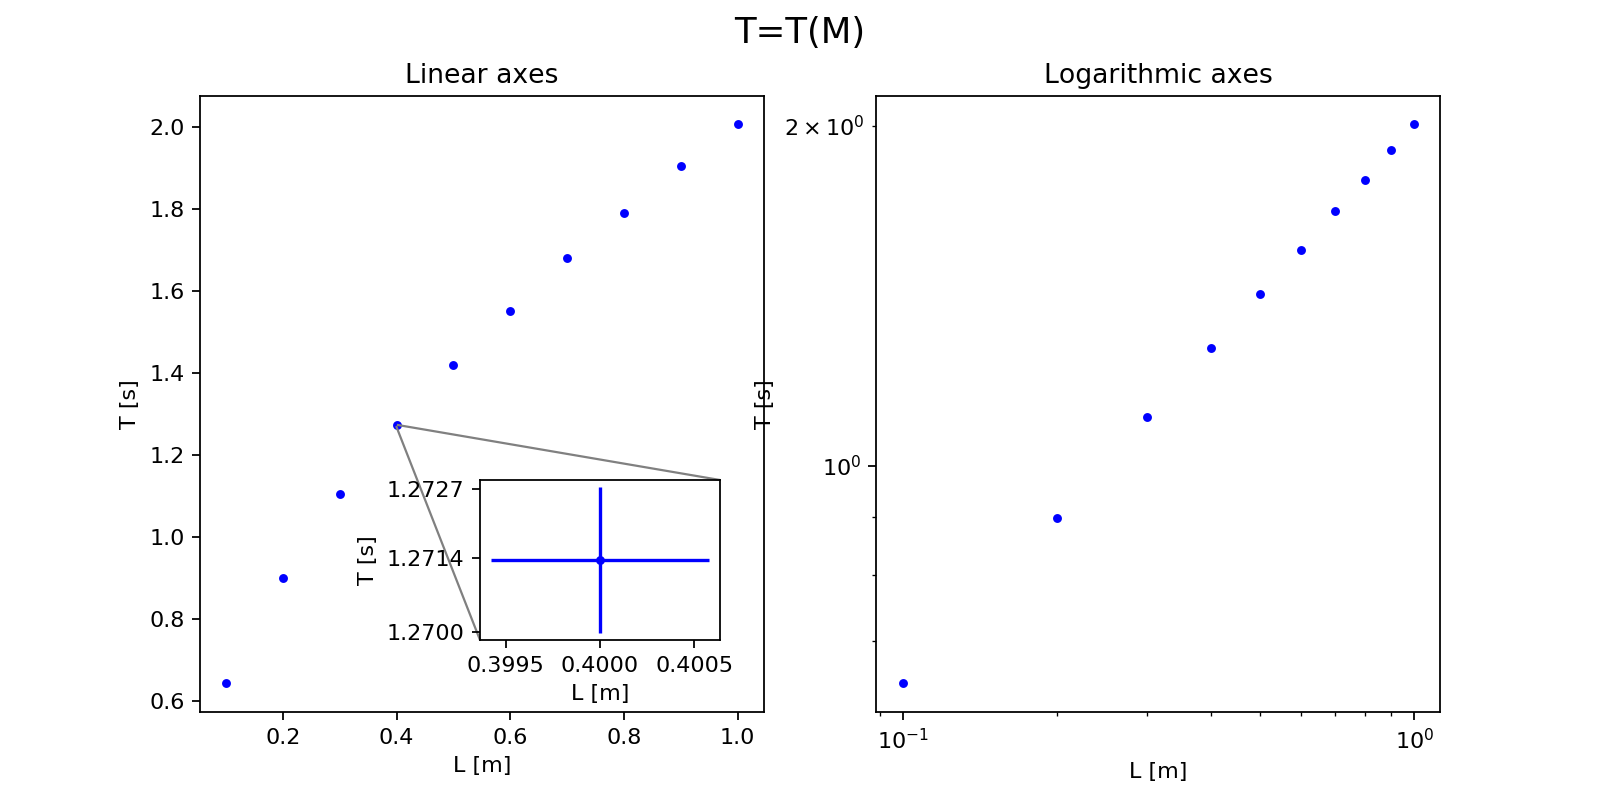
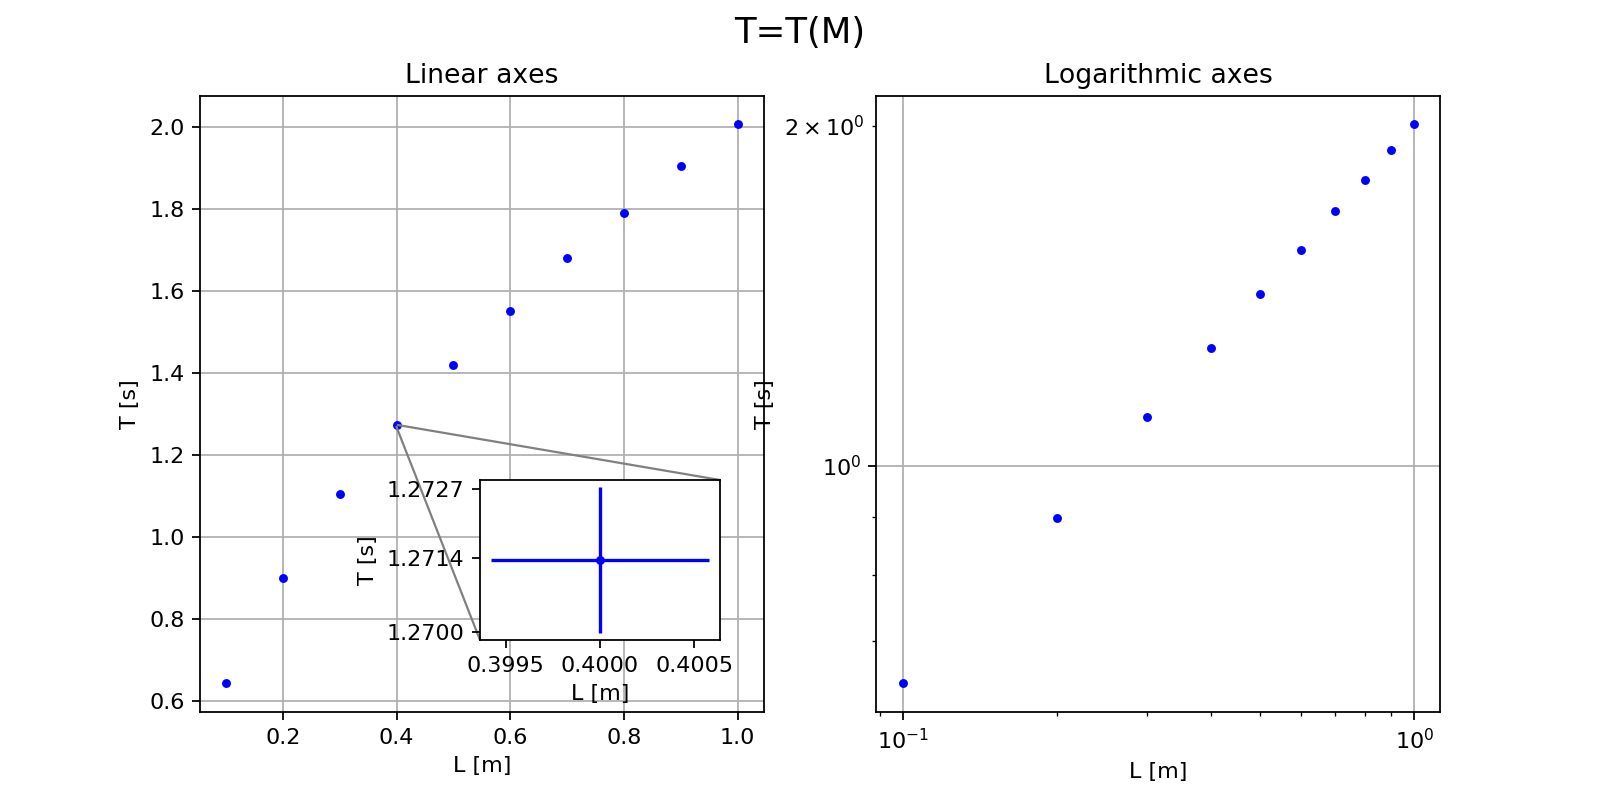
finished and sent

diff --git a/pendolo-massa/pendolo_massa_3.py b/pendolo-massa/pendolo_massa_3.py
@@ -51,7 +51,7 @@ def parte_3():
     dt=np.sqrt((delta_t)**2 + \
                 np.std(tempi,axis=1)**2)[0:]
     dm=1e-4/np.sqrt(12)
-    dd=5*np.pi/180
+    dd=1*np.pi/180
 
     #data
     x=final_lengths=lunghezze[0:]
@@ -146,6 +146,7 @@ def parte_3():
     ax11.set_title('Linear axes')
     ax11.set_ylabel('T ['+t_units+']')
     ax11.set_xlabel('L ['+l_units+']')
+    ax11.grid()
     #sp2
     ax12=fig1.add_subplot(1,2,2)
     ax12.errorbar(x,y,xerr=dx,yerr=dt,fmt='b.')
@@ -154,6 +155,7 @@ def parte_3():
     ax12.set_title('Logarithmic axes')
     ax12.set_ylabel('T ['+t_units+']')
     ax12.set_xlabel('L ['+l_units+']')
+    ax12.grid()
     #zoom
     ax11_zoom = fig1.add_axes((.3,.2,.15,.2))
     ax11_zoom.errorbar(final_lengths[3],final_time[3],xerr=dx,yerr=dt[3],fmt='b.')
@@ -164,6 +166,7 @@ def parte_3():
     ax11_zoom.set_ylabel('T ['+t_units+']')
     ax11_zoom.set_xlabel('L ['+l_units+']')
     mark_inset(ax11, ax11_zoom, loc1=1, loc2=3, fc="none", ec="0.5")
+
     #finishing
     fig1.suptitle('T=T(M)',fontsize=16)
 
@@ -171,52 +174,59 @@ def parte_3():
     fig2=plt.figure(figsize=(8,4))
     #sp1
     ax21=fig2.add_subplot(1,2,1)
-    ax21.errorbar(x,y,xerr=dx,yerr=dt,fmt='b.')
-    ax21.plot([np.min(x),np.max(x)],[A+np.min(x)*B,A+np.max(x)*B],color='#e41a1c')
-    ax21.set_title('T=T(M)')
+    ax21.errorbar(x,y,xerr=dx,yerr=dt,fmt='b.',label='Dati')
+    ax21.plot([np.min(x),np.max(x)],[A+np.min(x)*B,A+np.max(x)*B],color='#e41a1c',label='Regressione lineare')
+    ax21.set_title('Regressione Lineare')
     ax21.set_ylabel('T ['+t_units+']')
     ax21.set_xlabel('L ['+l_units+']')
     #sp2
     ax22=fig2.add_subplot(1,2,2)
     ax22.errorbar(x,y-A-B*x,xerr=dx,yerr=dt,fmt='b.')
     ax22.axhline(y=0,color='#e41a1c')
-    ax22.set_title('R=R(M)')
+    ax22.set_title('Residui')
     ax22.set_ylabel('T ['+t_units+']')
     ax22.set_xlabel('L ['+l_units+']')
+
+    legend21 = ax21.legend(loc='lower right', shadow=True)
     #finishing
-    fig2.suptitle('Proporzione lineare T=A+B*l',fontsize=16)
+    #fig2.suptitle('Proporzione lineare T=A+B*l',fontsize=16)
 
 
     ##PLOT 3
     fig3=plt.figure(figsize=DOUBLE_FIGSIZE)
     #sp1
     ax31=fig3.add_subplot(1,2,1)
-    ax31.errorbar(X,Y,xerr=dX,yerr=dY,fmt='b.')
-    ax31.plot([np.min(X),np.max(X)],[A_log+np.min(X)*B_log,A_log+np.max(X)*B_log],color='#e41a1c')
-    ax31.set_title('Y=Y(X)')
+    ax31.errorbar(X,Y,xerr=dX,yerr=dY,fmt='b.',label='Dati')
+    ax31.plot([np.min(X),np.max(X)],[A_log+np.min(X)*B_log,A_log+np.max(X)*B_log],color='#e41a1c',label='Regressione lineare')
+    ax31.set_title('Regressione lineare')
     ax31.set_ylabel('Y[]')
     ax31.set_xlabel('X[]')
+    legend31 = ax31.legend(loc='lower right', shadow=True)
+    ax31.grid()
     #sp2
     ax32=fig3.add_subplot(1,2,2)
     ax32.errorbar(X,Y-A_log-B_log*X,xerr=dX,yerr=dY,fmt='b.')
     ax32.axhline(y=0,color='#e41a1c')
-    ax32.set_title('R_log(X)')
+    ax32.set_title('Residui')
     ax32.set_ylabel('R[]')
     ax32.set_xlabel('X[]')
+    ax32.grid()
+
     #finishing
-    fig3.suptitle('Proporzione lineare sui grafici loglog Y=A_log+B_log*X',fontsize=16)
+    # fig3.suptitle('Proporzione lineare sui grafici loglog Y=A_log+B_log*X',fontsize=16)
 
     ##PLOT 4
     fig4=plt.figure(figsize=MONO_FIGSIZE)
     #sp1
     ax41=fig4.add_subplot(1,1,1)
     for i in [[dg,'#e41a1c','dg'],[dg_l,'#377eb8','dg_l'],[dg_t,'#4daf4a','dg_t']]:
-        ax41.plot(x,i[0],color=i[1],label=i[2])
+        ax41.plot(x,i[0],'bo',color=i[1],label=i[2])
+        ax41.plot(x,i[0],'--',color=i[1])
     ax41.set_ylabel('dg ['+l_units+'*'+t_units+'^-2]')
     ax41.set_xlabel('L ['+l_units+']')
     #finishing
     legend41 = ax41.legend(loc='upper right', shadow=True)
-    legend41.get_frame().set_facecolor('#00FF69')
+    # legend41.get_frame().set_facecolor('#00FF69')
     fig4.suptitle('Confronto contributo incertezze per g',fontsize=16)
 
     ##PLOT 5
@@ -234,7 +244,7 @@ def parte_3():
     ax51.set_ylabel('g ['+l_units+'*'+t_units+'^-2]')
     ax51.set_xlabel('L ['+l_units+']')
     legend51 = ax51.legend(loc='lower right', shadow=True)
-    legend51.get_frame().set_facecolor('#00FF69')
+    #legend51.get_frame().set_facecolor('#00FF69')
     #finishing
     fig5.suptitle('Dipendenza di g da l',fontsize=16)
 
@@ -250,7 +260,7 @@ def parte_3():
     ax61.set_ylabel('g ['+l_units+'*'+t_units+'^-2]')
     ax61.set_xlabel('L ['+l_units+']')
     legend61 = ax61.legend(loc='lower right', shadow=True)
-    legend61.get_frame().set_facecolor('#00FF69')
+    #legend61.get_frame().set_facecolor('#00FF69')
     #finishing
     fig6.suptitle('Dipendenza di g da l (considerando a)',fontsize=16)
 
@@ -269,11 +279,30 @@ def parte_3():
     ax71.set_ylabel('g ['+l_units+'*'+t_units+'^-2]')
     ax71.set_xlabel('L ['+l_units+']')
     legend71 = ax71.legend(loc='lower right', shadow=True)
-    legend71.get_frame().set_facecolor('#00FF69')
+    #legend71.get_frame().set_facecolor('#00FF69')
     #finishing
     fig7.suptitle('Dipendenza di g da l',fontsize=16)
 
-    #plt.show()
+    ##PLOT 8
+    fig8=plt.figure(figsize=MONO_FIGSIZE)
+    #sp1
+    ax81=fig8.add_subplot(1,1,1)
+    ax81.errorbar(x,g,xerr=dx,yerr=dg,fmt='b.',label='Pendolo semplice')
+    ax81.errorbar(x,g_1,xerr=dx,yerr=dg_1,fmt='r.',label='Pendolo fisico')
+    ax81.axhline(y=g0_1m,color='b',label='Media aritmetica')
+    ax81.axhline(y=g0_1w,color='r',label='Media pesata')
+    ax81.axhline(y=9.806,color='#000000',label='Tabulato')
+    ax81.axhspan(ymin=g0_1m-dg0_1m,ymax=g0_1m+dg0_1m,color='b',alpha=.2)
+    ax81.axhspan(ymin=g0_1w-dg0_1w,ymax=g0_1w+dg0_1w,color='r',alpha=.2)
+    # ax71.set_title('g=g(l)')
+    ax81.set_ylabel('g ['+l_units+'*'+t_units+'^-2]')
+    ax81.set_xlabel('L ['+l_units+']')
+    legend71 = ax81.legend(loc='lower right', shadow=True)
+    #legend71.get_frame().set_facecolor('#00FF69')
+    #finishing
+    fig8.suptitle('Dipendenza di g da l',fontsize=16)
+
+    # plt.show()
     fig1.savefig('Relazione/fig 3/fig1.png', transparent=False, dpi=160, )
     fig2.savefig('Relazione/fig 3/fig2.png', transparent=False, dpi=160, )
     fig3.savefig('Relazione/fig 3/fig3.png', transparent=False, dpi=160, )
@@ -281,3 +310,4 @@ def parte_3():
     fig5.savefig('Relazione/fig 3/fig5.png', transparent=False, dpi=160, )
     fig6.savefig('Relazione/fig 3/fig6.png', transparent=False, dpi=160, )
     fig7.savefig('Relazione/fig 3/fig7.png', transparent=False, dpi=160, )
+    fig8.savefig('Relazione/fig 3/fig8.png', transparent=False, dpi=160, )

diff --git a/pendolo-massa/pendolo_massa_2.py b/pendolo-massa/pendolo_massa_2.py
@@ -76,7 +76,7 @@ def parte_2():
 
     ## Plot_1
     fig1=plt.figure(figsize=(10,5))
-    fig1.suptitle('T=T(M)')
+    fig1.suptitle('Grafico del periodo in funzione della massa')
     ax1=fig1.add_subplot(111)
     ax1.errorbar(x,y,xerr=dm,yerr=dt,fmt='b.',label='Osservazioni')
     ax1.set_ylabel('T ['+t_units+']')
@@ -87,7 +87,7 @@ def parte_2():
     #plot lr blue
     ax1.plot([final_mass[0],final_mass[3]],[A+B*final_mass[0],A+B*final_mass[3]],color='#377eb8',label='Regressione lineare')
     legend1 = ax1.legend(loc='upper right', shadow=True)
-    legend1.get_frame().set_facecolor('#00FF69')
+    # legend1.get_frame().set_facecolor('#00FF69')
     #show
     #plt.show()
     fig1.savefig('Relazione/fig 2/fig11.png', transparent=False, dpi=160, )
